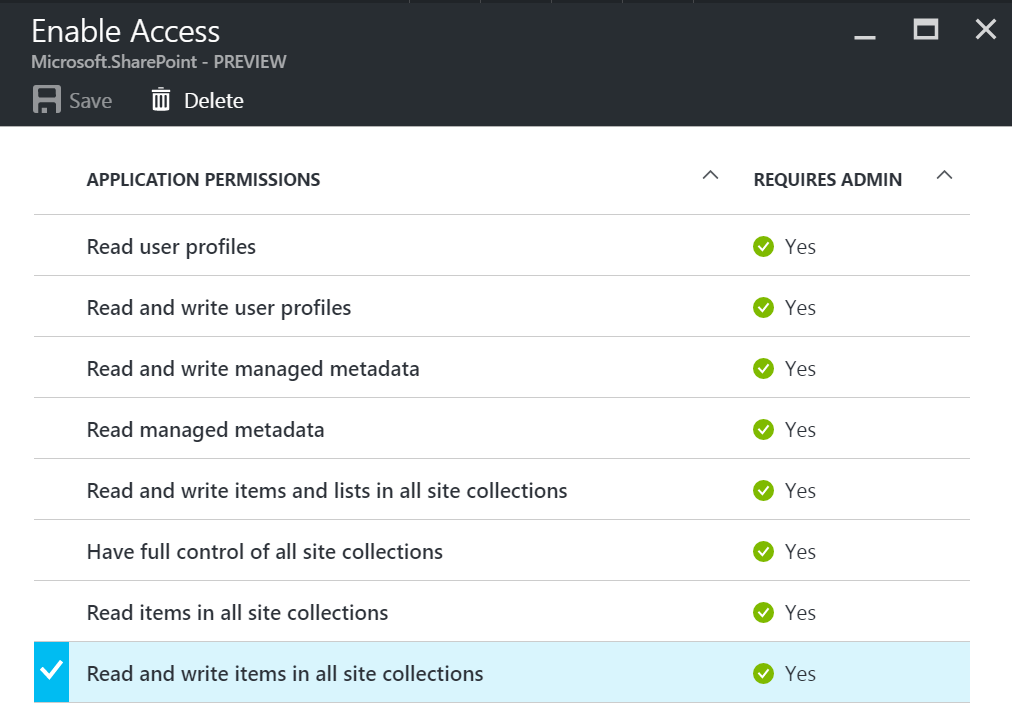
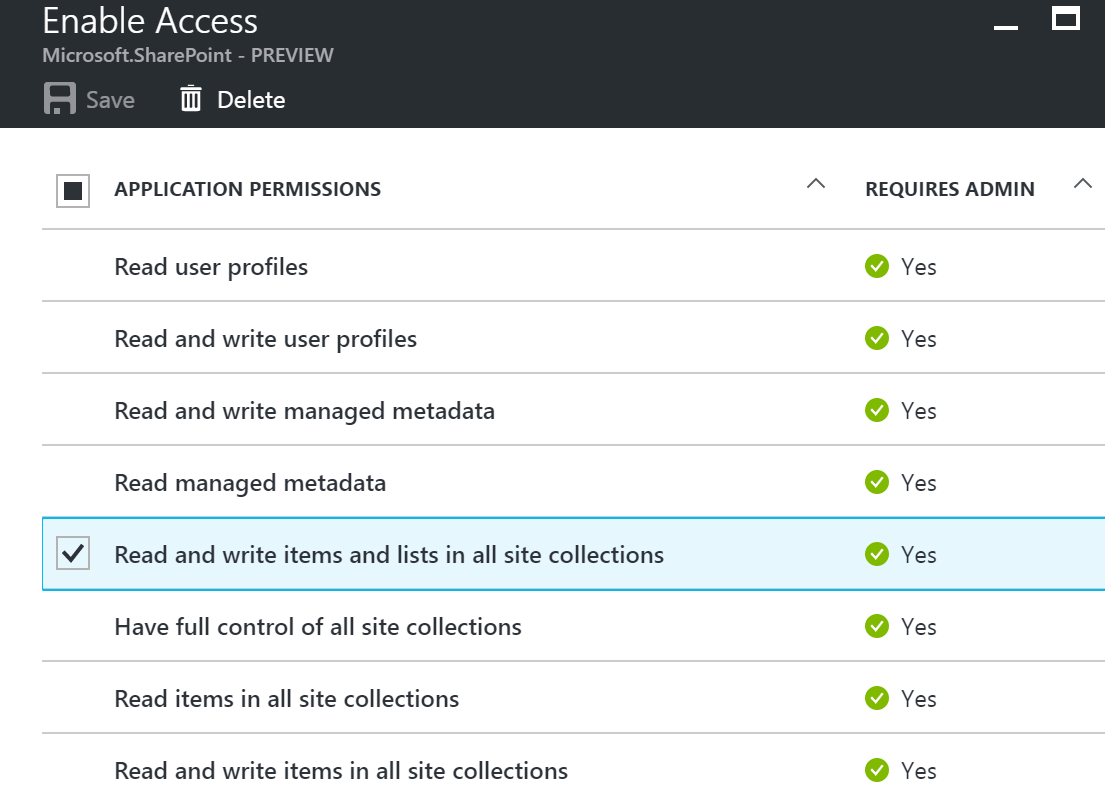
Different AAD permissions required: changed info and screenshot about

diff --git a/Samples/WebHooks.Nodejs/readme.md b/Samples/WebHooks.Nodejs/readme.md
@@ -19,6 +19,7 @@ Webhook.Nodejs | Elio Struyf (MVP, Ventigrate, [@eliostruyf](https://twitter.com
 Version  | Date | Comments
 ---------| -----| --------
 1.0.0  | September 27, 2016 | Initial release
+1.0.1  | February 10, 2017 | Small improvements in docs and packages
 
 ### Disclaimer
 **THIS CODE IS PROVIDED *AS IS* WITHOUT WARRANTY OF ANY KIND, EITHER EXPRESS OR IMPLIED, INCLUDING ANY IMPLIED WARRANTIES OF FITNESS FOR A PARTICULAR PURPOSE, MERCHANTABILITY, OR NON-INFRINGEMENT.**
@@ -31,7 +32,7 @@ You will need to register an Azure AD application with *application permissions*
 
 ### Azure AD application and certificate configuration
 - Create a new Azure AD application
-- Give the application the following permissions: **Read and write items in all site collections**
+- Give the application the following permissions: **Read and write items and lists in all site collections**
 
 ![Read & Write permissions](./assets/azure-ad-permissions.png)
 
